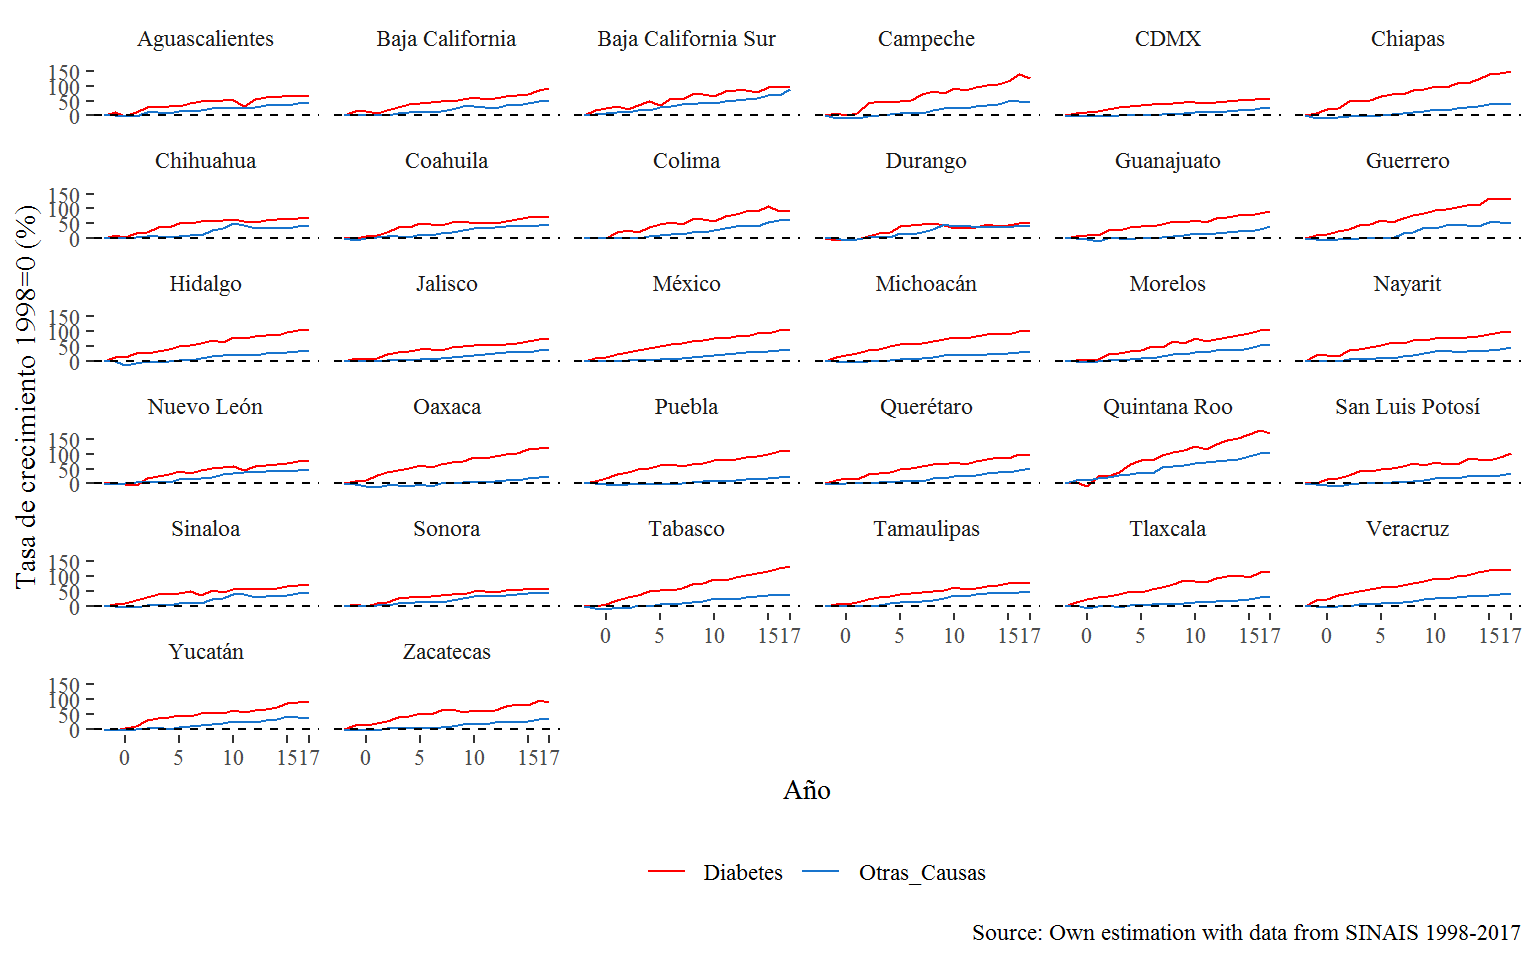
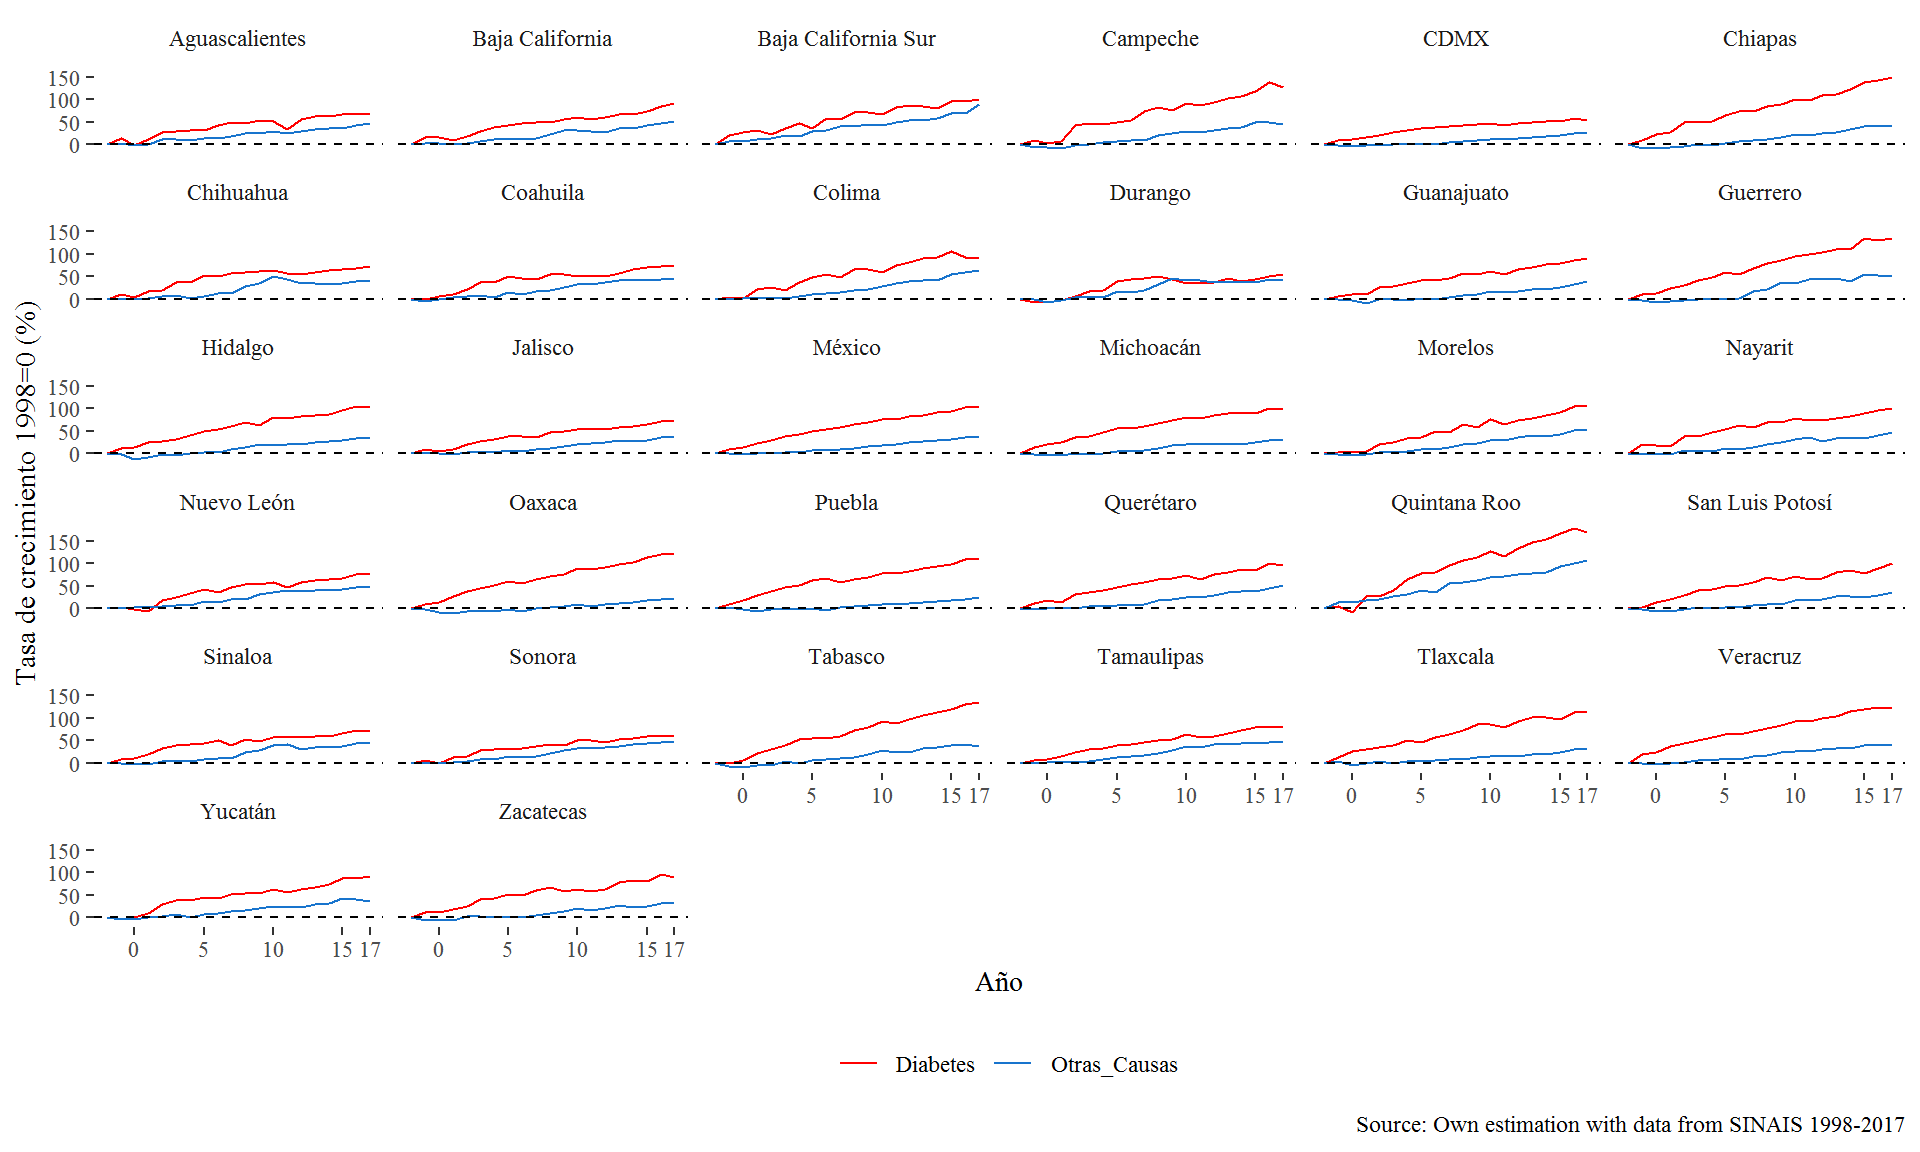
a

diff --git a/content/post/cayman-typography/index.html b/content/post/cayman-typography/index.html
@@ -7,7 +7,7 @@ output: html_document
 
 
 
-<img src="Figuras/unnamed-chunk-1-1.png" width="768" style="display: block; margin: auto;" />
+<img src="Figuras/unnamed-chunk-1-1.png" width="960" style="display: block; margin: auto;" />
 <div style="text-align: justify">
 <p>During the last fifteen years, T2D mortality showed an explosive pattern at the border states. This growth rate pattern departs from the trend followed by all other death causes.</p>
 <p>In particular, a rapid growth trajectory at the <strong>southern border</strong> is evident, with a widening gap by the end of the study period. This trend reaches a 169% increase in <strong>Quintana Roo</strong> by 2019 relative to the base year 1998, with an annual 8.45% average growth rate.</p>
@@ -18,4 +18,4 @@ output: html_document
 <p>This contrast relative to the southern border suggest significant and fast regional changes in the Mexican population health, as well as important implications for the health care system as a whole, it is important to remember that Diabetes is considered a high financial impact disease from the perspective of the Health care system.</p>
 The following graphs shows a closer look a the trend in each region.
 </div>
-<p><img src="Figuras/unnamed-chunk-2-1.png" width="672" style="display: block; margin: auto;" /></p>
+<p><img src="Figuras/unnamed-chunk-2-1.png" width="960" style="display: block; margin: auto;" /></p>

diff --git a/public/cayman-typography/index.html b/public/cayman-typography/index.html
@@ -80,7 +80,7 @@
   
 
 
-<img src="Figuras/unnamed-chunk-1-1.png" width="768" style="display: block; margin: auto;" />
+<img src="Figuras/unnamed-chunk-1-1.png" width="960" style="display: block; margin: auto;" />
 <div style="text-align: justify">
 <p>During the last fifteen years, T2D mortality showed an explosive pattern at the border states. This growth rate pattern departs from the trend followed by all other death causes.</p>
 <p>In particular, a rapid growth trajectory at the <strong>southern border</strong> is evident, with a widening gap by the end of the study period. This trend reaches a 169% increase in <strong>Quintana Roo</strong> by 2019 relative to the base year 1998, with an annual 8.45% average growth rate.</p>
@@ -91,7 +91,7 @@
 <p>This contrast relative to the southern border suggest significant and fast regional changes in the Mexican population health, as well as important implications for the health care system as a whole, it is important to remember that Diabetes is considered a high financial impact disease from the perspective of the Health care system.</p>
 The following graphs shows a closer look a the trend in each region.
 </div>
-<p><img src="Figuras/unnamed-chunk-2-1.png" width="672" style="display: block; margin: auto;" /></p>
+<p><img src="Figuras/unnamed-chunk-2-1.png" width="960" style="display: block; margin: auto;" /></p>
 
   
 
